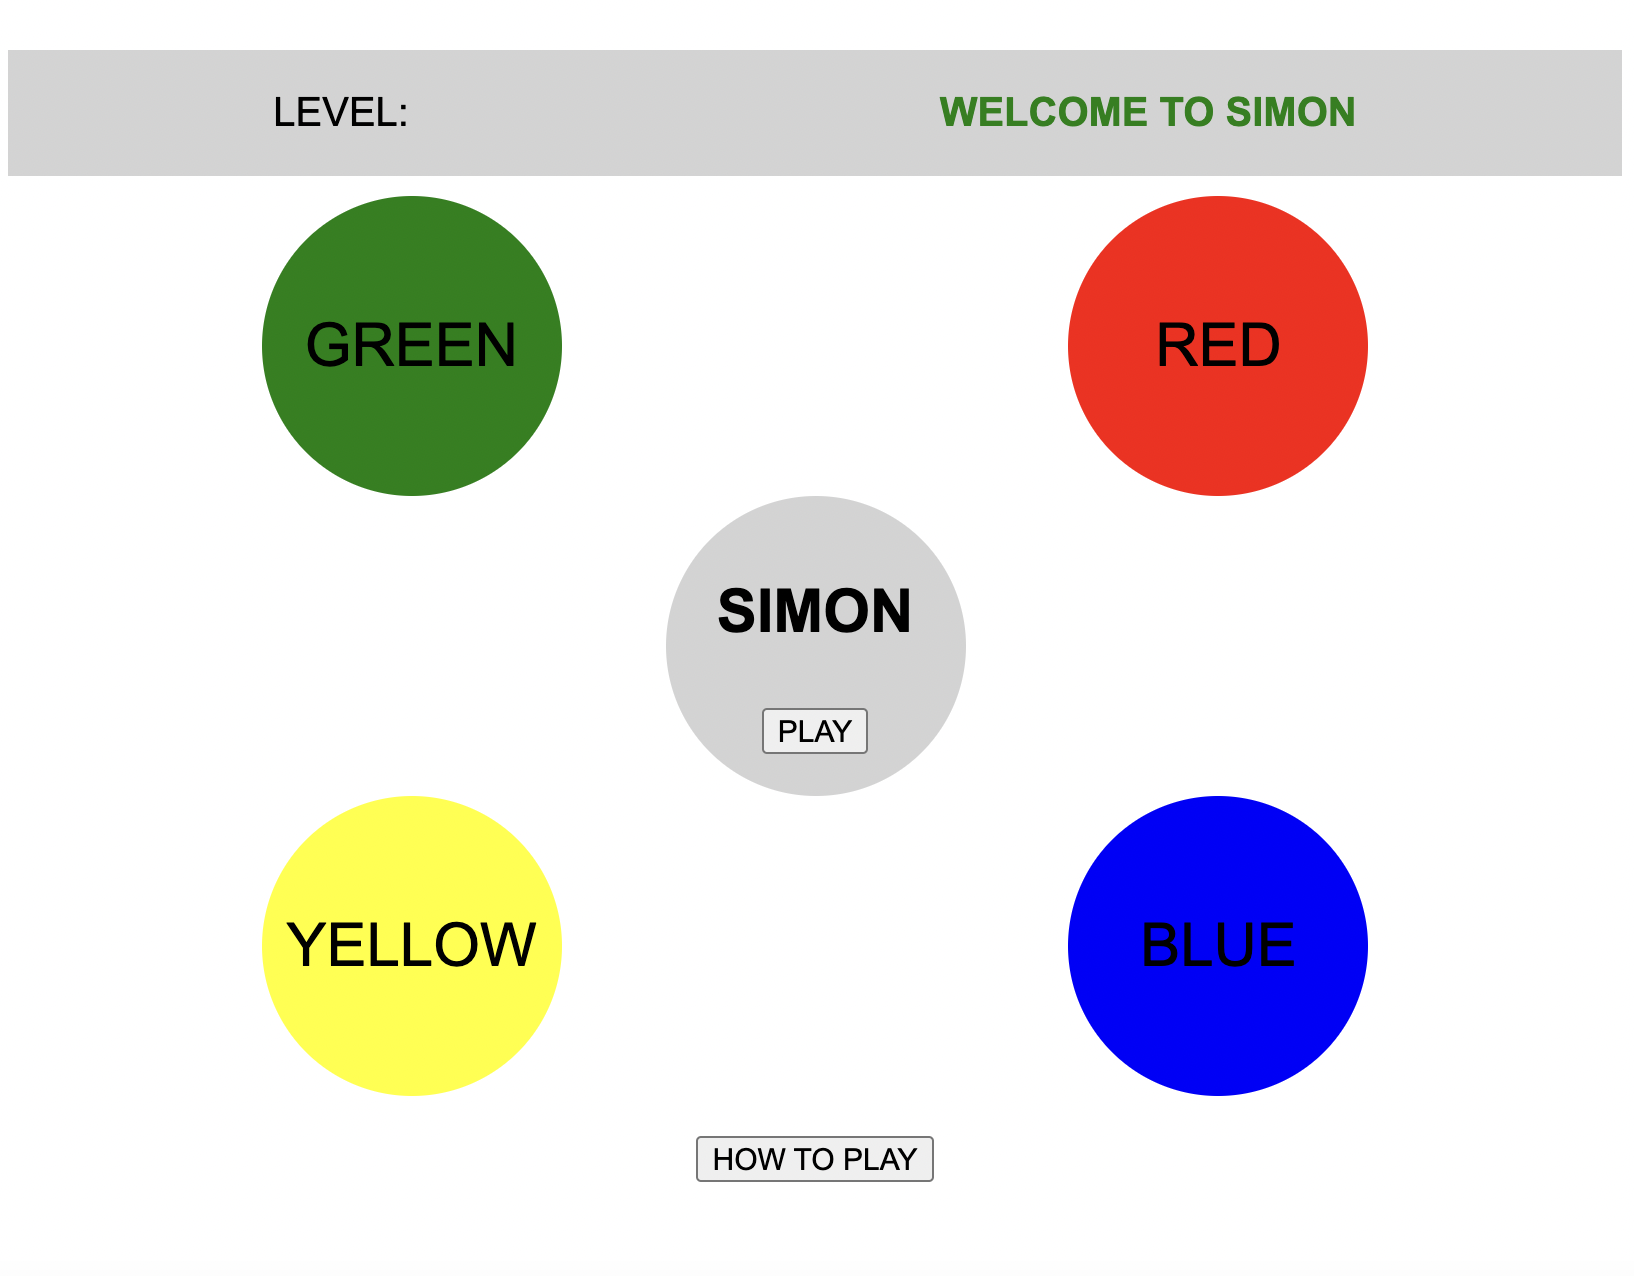
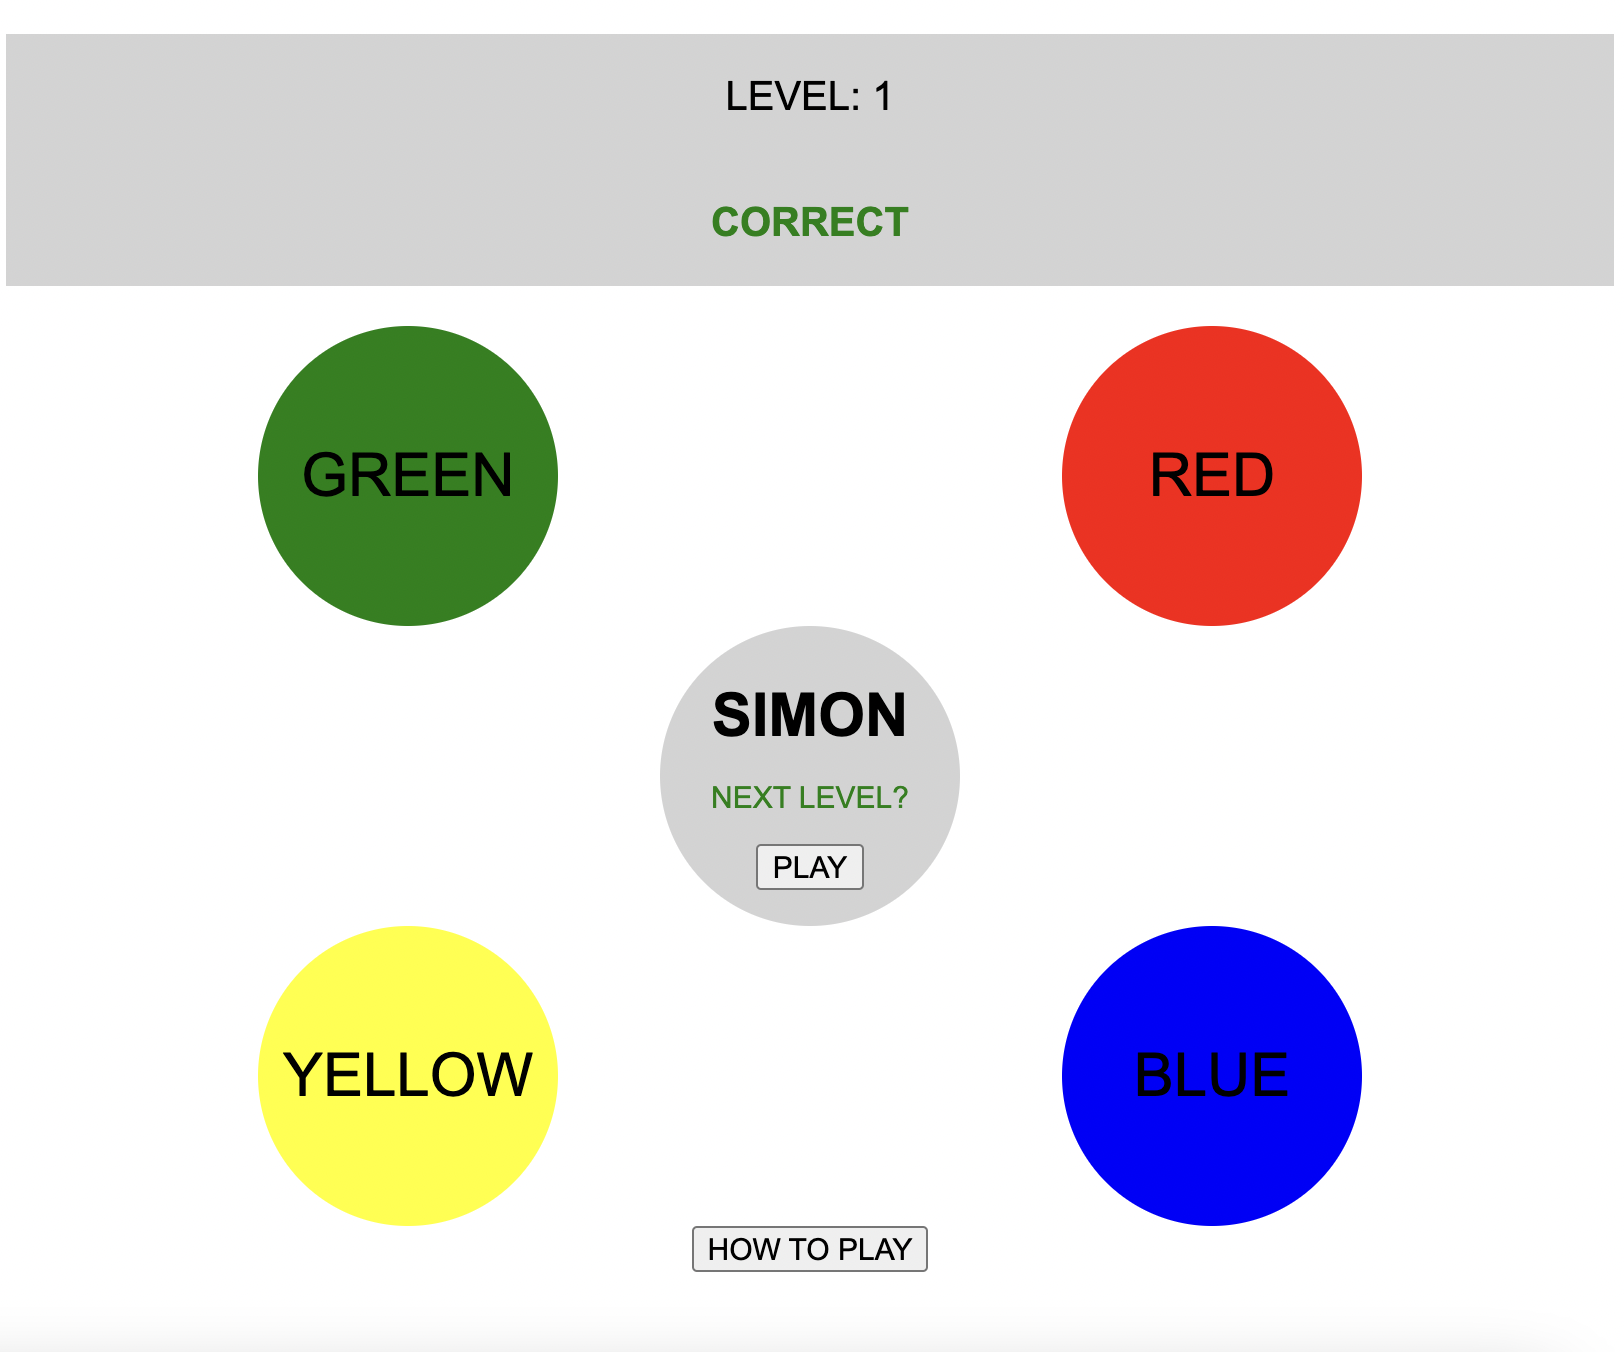
Create a how to play modal and update the placement of game items to be more user friendly after demoing the game to family members. Change the read me photo to reflect those changes.

diff --git a/style.css b/style.css
@@ -58,7 +58,7 @@
 /* make the font size appropriate and reduce the bottom margin for the simon title*/
 h1 {
 	font-size: 20px;
-	margin-bottom: 1px;
+	margin-bottom: 0px;
 }
 
 /* make the next level? pop-up the appropriate size and boldness and green so it's noticeable */
@@ -66,22 +66,26 @@ h1 {
 	font-size: 10px;
 	font-weight: lighter;
 	color: green;
+	margin-top: 0px;
 }
 
 /* make the play button an appropriate size */
 #play {
 	font-size: 10px;
+	margin-bottom: 10px;
 }
 
 /* display the game updates at the appropriate size and margin with a light grey background*/
 #game-updates {
 	display: flex;
-	justify-content: space-around;
+	flex-flow: column;
+	justify-content: center;
+	align-items: center;
 	flex-wrap: wrap;
 	font-size: 10px;
 	margin-top: 30px;
 	background: lightgray;
-	margin-bottom: 10px;
+	margin-bottom: 20px;
 }
 
 /* make the go message green and bold to draw the eye */
@@ -90,15 +94,14 @@ h1 {
 	font-weight: bolder;
 }
 
-/*  make the container holding the how-to-play button flex and centered with room between it and the yellow and blue buttons*/
-#how-to-container {
+/* make the how to play button the right size */
+#how-to-play-container {
 	display: flex;
 	justify-content: center;
-	margin-top: 10px;
+	margin-top: 20px;
 }
 
-/* make the how to play button the right size */
-#how-to-play {
+#open-how-to-play {
 	font-size: 10px;
 }
 
@@ -112,6 +115,39 @@ h1 {
 #green-red {
 	display: flex;
 	justify-content: space-around;
+}
+
+/* how to play modal styling  */
+/* I based this styling off of how I did it in the modals homework */
+#how-to-play-modal {
+	background-color: rgba(0, 0, 0, 0.4);
+	position: fixed;
+	top: 0;
+	left: 0;
+	height: 100%;
+	width: 100%;
+	z-index: 1;
+	overflow: auto;
+	display: none;
+}
+
+#how-to-play-textbox {
+	background-color: white;
+	height: 715px;
+	width: 250px;
+	border-radius: 2px;
+	margin: 150px auto;
+	box-shadow: 0 2px 2px rgba(0, 0, 0, 0.2);
+	padding: 2%;
+	line-height: 120%;
+}
+
+#how-to-play-footer {
+	text-align: right;
+}
+
+h1 {
+	padding-bottom: 15px;
 }
 
 /* resize and reorient the above for screens that are bigger than 800px wide */
@@ -142,12 +178,14 @@ h1 {
 		margin-top: 30px;
 	}
 
-	#how-to-container {
-		margin-top: 20px;
-	}
-
-	#how-to-play {
-		font-size: 15px;
+	#how-to-play-container {
 		margin-top: 0px;
+	}
+	#open-how-to-play {
+		font-size: 15px;
+	}
+	#how-to-play-textbox {
+		height: 440px;
+		width: 550px;
 	}
 }

diff --git a/script.js b/script.js
@@ -15,8 +15,12 @@ let levelCount = 0;
 
 /*----- cached element references -----*/
 
+// pluck the elements for the how to play modal out of the html
+const howToPlayBtn = document.querySelector('#open-how-to-play');
+const howToPlayModal = document.querySelector('#how-to-play-modal');
+const howToPlayCloseBtn = document.querySelector('#how-to-play-close');
+
 // pluck the buttons out of the html
-const howToPlayBtn = document.querySelector('#how-to-play');
 const playBtn = document.querySelector('#play');
 const greenBtn = document.querySelector('#green');
 const redBtn = document.querySelector('#red');
@@ -38,7 +42,10 @@ yellowBtn.addEventListener('click', yellowBtnHandler);
 blueBtn.addEventListener('click', blueBtnHandler);
 
 //listen to the how to play button
-howToPlayBtn.addEventListener('click', howToPlayHandler);
+howToPlayBtn.addEventListener('click', openHowToPlayModal);
+
+//listen to the how to play closing button
+howToPlayCloseBtn.addEventListener('click', closeHowToPlayModal);
 
 //listen to the play button
 playBtn.addEventListener('click', playHandler);
@@ -257,9 +264,12 @@ function enableBtns() {
 	playerTurn.innerText = 'YOUR TURN';
 }
 
-// function for when the how to play button is clicked
-function howToPlayHandler() {
-	alert(
-		"HOW TO PLAY SIMON: Simon is a memory-based game in which 'Simon' presses colors in a particular order, then the player presses those same colors in the same order. If the player succeeds at mimicking Simon, they may proceed into the next level where Simon will press one more color than the last level. If the player makes a mistake, they are forced to restart the game. To start the game, press play. Wait for Simon to take their turn. When it is your turn, click the color buttons in the same order they were clicked by Simon. If you chose correctly, press play to start the next level. If you chose incorrectly, the game will indicate 'INCORRECT' in red, and the page will be auto-refreshed after 3 seconds. This browser-based game is harkening back to the 80's handheld Hasboro game with the same/similar functionality!"
-	);
+// function for when the how to play button is clicked to make modal appear
+function openHowToPlayModal() {
+	howToPlayModal.style.display = 'block';
+}
+
+//function for what to do when the player tries to close the modal
+function closeHowToPlayModal() {
+	howToPlayModal.style.display = 'none';
 }

diff --git a/index.html b/index.html
@@ -28,10 +28,38 @@
     <div id='yellow-blue'>
         <button class="colors" id="yellow" disabled>YELLOW</button>
         <button class="colors" id="blue" disabled>BLUE</button>
+    <!-- Modal inspired by modal homework -->
     </div>
-    <div id='how-to-container'>
-        <button id="how-to-play">HOW TO PLAY</button>
+    <div id='how-to-play-container'>
+        <button id="open-how-to-play" class='how-to-play-modal-buttons'>HOW TO PLAY</button>
     </div>
+    <div id="how-to-play-modal">
+        <div id='how-to-play-textbox'>
+            <h1>HOW TO PLAY SIMON</h1>
+
+            <p>Simon is a memory-based game in which 'Simon' presses colors in a particular order, then the player presses those same
+            colors in the same order.</p>
+            
+            <p>If the player succeeds at mimicking Simon, they may proceed into the next level where Simon will press one more color
+            than the last level.</p>
+            
+            <p>If the player makes a mistake, they are forced to restart the game.</p>
+            
+            <p>To start the game, press play. Wait for Simon to take their turn. When it is your turn, click the color buttons in the
+            same order they were clicked by Simon.</p>
+            
+            <p>If you chose correctly, press play to start the next level.</p>
+            
+            <p>If you chose incorrectly, the game will indicate "INCORRECT" in red, and the page will be auto-refreshed after 3
+            seconds.</p>
+            
+            <p>This browser-based game is harkening back to the 80's handheld Hasboro game with the same/similar functionality!</p>
+            <div id="how-to-play-footer">
+                <button class='how-to-play-modal-buttons' id='how-to-play-close' >CLOSE</button>
+            </div>
+        </div>
+    </div>
+    
     <script src="script.js"></script>
 </body>
 </html>

diff --git a/README.md b/README.md
@@ -42,13 +42,13 @@ placeholder text
 
 # Bronze
 
-- As a user, I want the lose screen and the how to play screen to be presented as modals, because they are more pleasing to the eye than prompts and alerts
+- As a user, I want the lose screen and the how to play screen to be presented as modals, because they are more pleasing to the eye than prompts and alerts.
 
 # Silver
 
-- As a user, I want the game to track my highscore and present it in the lose modal, so that I know if I've beat my own record
+- As a user, I want the game to track my highscore and present it in the lose modal, so that I know if I've beat my own record.
 
-- As a user, I want to automatically be re-directed to the lose screen as soon as I get one color wrong, so I don't have to enter random colors if i don't know the answer.
+- As a user, I want to automatically be re-directed to the lose screen as soon as I get one color wrong, so I don't have to enter random colors if I don't know the answer.
 
 # Gold
 
@@ -57,6 +57,8 @@ placeholder text
 - As a user I want the message that displays at the end of the game to be a random encouraging message, so that the sting of the loss is soothed and the game stays feeling fresh.
 
 - As a user I want to choose the speed in which the buttons are indicated by difficulty level, so I can have more customization over my gameplay.
+
+- As a user I want an option to play this game in a fashion accessible to screen readers, so that it's more accessible.
 
 ### Wireframes
 
@@ -70,4 +72,4 @@ placeholder text
 
 ## Unsolved Problems/Major Hurdles
 
-The refactoring of my JavaScript post reaching my MVP goals has been difficult. I want my javaScript code to be as dry as possible. Hopefully this refactoring will be complete before submission time.
+The refactoring of my JavaScript post reaching my MVP goals has been difficult. I'm still working on reducing my javaScript code.
